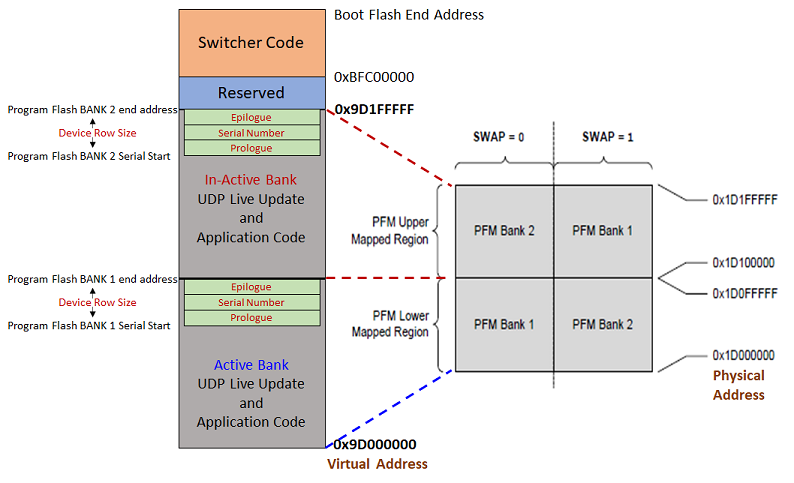
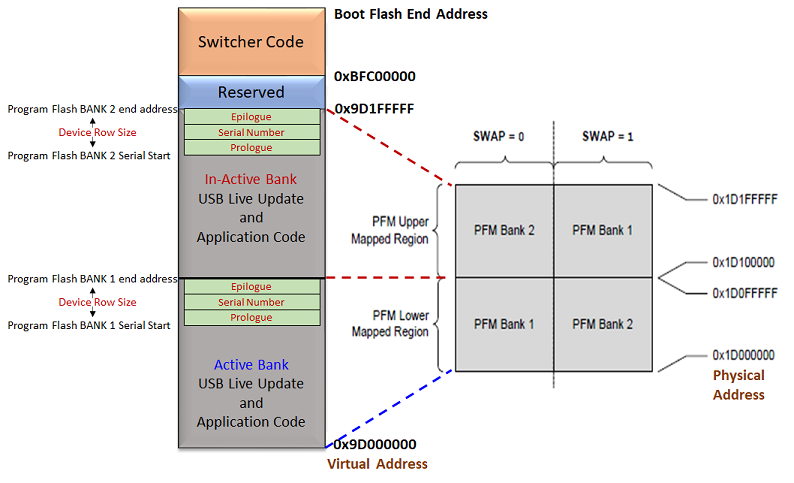
[DOC] Updated Application documentation
MH3-53040

diff --git a/apps/docs/readme_configure_application_pic32m.md b/apps/docs/readme_configure_application_pic32m.md
@@ -1,17 +1,19 @@
 ---
 parent: Application Configurations
-title: PIC32M Application Configurations
+title: Application Configurations for MIPS based MCUs
 has_children: false
 has_toc: false
 ---
 
 [![MCHP](https://www.microchip.com/ResourcePackages/Microchip/assets/dist/images/logo.png)](https://www.microchip.com)
 
-# Configuring a PIC32M based Application to be bootloaded
+# Configuring an application to be bootloaded for MIPS based MCUs
+
+## Linker configurations for the application to be bootloaded
 
 ### Bootloader placement for various PIC32M product families
 
-The bootloader is placed in Boot Flash Memory (BFM) or Program Flash Memory (PFM) based on the size of the bootloader and available Boot flash memory on the device.
+The bootloader is placed in **Boot Flash Memory (BFM)** or **Program Flash Memory (PFM)** based on the size of the bootloader and available Boot flash memory on the device.
 
 - If the bootloader fits into the available BFM, it is placed in BFM. The user application can use the complete area of the program Flash memory.
 
@@ -19,10 +21,11 @@ The bootloader is placed in Boot Flash Memory (BFM) or Program Flash Memory (PFM
 
 - The following table shows the available Boot Flash memory and the placement of different bootloaders by product family. 
 
-![bootloader_placement](./images/bootloader_placement.png)
+    <p align="center">
+        <img src = "./images/bootloader_placement.png"/>
+    </p>
 
-
-## Setting Up the Application linker script
+## Setting up the Application linker script
 
 The linker script file of the application project has to be modified to place the vector table and reset handlers in program flash memory.
 
@@ -54,7 +57,7 @@ The linker script file of the application project has to be modified to place th
 - Updated linker scripts as explained above is shown here **as an example**
     - **Note: Cache related sections are not applicable for PIC32MK Devices**
 
-```
+```c
 PROVIDE(_vector_spacing = 0x0001);
 PROVIDE(_ebase_address = 0x9D000000);
 
@@ -132,7 +135,7 @@ kseg1_boot_mem_4B0      : ORIGIN = 0xBD0004B0, LENGTH = 0x1000 - 0x4B0
 - Updated linked scripts as explained above is shown here **as an example**.
     - Bootloader length **\<bootloader_length\>** in the below snippet needs to be replaced with size of the respective bootloader.
 
-```
+```c
 PROVIDE(_vector_spacing = 0x0001);
 PROVIDE(_ebase_address = 0x9D000000);
 
@@ -191,7 +194,7 @@ kseg1_boot_mem          : ORIGIN = 0xBD000000 + <bootloader_length>, LENGTH = 0x
 - Updated linked scripts as explained above is shown here **as an example.**
     - Bootloader length **\<bootloader_length\>** in the below snippet needs to be replaced with size of the respective bootloader.
 
-```
+```c
 PROVIDE(_vector_spacing = 0x0001);
 PROVIDE(_ebase_address = 0x9D000000 + <bootloader_length> + 0x1000);
 
@@ -226,11 +229,11 @@ ASSERT (_vector_spacing == 0 || SIZEOF(.vector_1) <= (_vector_spacing << 5), "fu
 
 ### Note
 
-- **As the Device configuration bits should be updated by bootloader only, the application linker script should not have any device configuration settings**
+- **The bootloader and the application must have the same device configuration bit settings. The Device configuration bit settings from the bootloader project will be updated by the programmer/debugger, Hence the application linker script should not have any device configuration bit settings. The application project will use the device configuration bit settings done by bootloader.**
 
 - **Device configurations and debug exception need to discarded from final hex file for the application project.**
 
-```
+```c
 /DISCARD/ : { *(._debug_exception) }
 /DISCARD/ : { *(.config_*) }
 ```
@@ -239,7 +242,7 @@ ASSERT (_vector_spacing == 0 || SIZEOF(.vector_1) <= (_vector_spacing << 5), "fu
 
 - **Data Memory Origin** and **Data Memory Length** values should be updated in linkerscript for reserving configured bytes from start of RAM to **trigger bootloader from firmware**
 
-```
+```c
 /* Reserve <trigger_len> Bytes to Store Bootloader Trigger Pattern */
 kseg0_data_mem       (w!x)  : ORIGIN = <ram_start> + <trigger_len>, LENGTH = <ram_length> - <trigger_len>
 ```
@@ -254,10 +257,15 @@ kseg0_data_mem       (w!x)  : ORIGIN = <ram_start> + <trigger_len>, LENGTH = <ra
 ${MP_CC_DIR}/xc32-objcopy -I ihex -O binary ${DISTDIR}/${PROJECTNAME}.${IMAGE_TYPE}.hex ${DISTDIR}/${PROJECTNAME}.${IMAGE_TYPE}.bin
     ```
 
-    ![application_config_post_build_script](./images/application_config_post_build_script.png)
+    <p align="center">
+        <img src = "./images/application_config_post_build_script.png"/>
+    </p>
 
 ### For Bootloading the application using USB Device HID Bootloader
 
 - Check the **Normalize hex file** option as shown below, as the **Unified bootloader host application** takes hex file as an input. **Normalizing the hex file will make sure the data in the hex file is arranged sequentially**
 
-    ![application_config_normalize_hex](./images/application_config_normalize_hex.png)
+    <p align="center">
+        <img src = "./images/application_config_normalize_hex.png"/>
+    </p>
+

diff --git a/apps/docs/readme_live_update_memory_layout_pic32m.md b/apps/docs/readme_live_update_memory_layout_pic32m.md
@@ -1,29 +1,29 @@
 ---
 parent: Live Update Memory Layout
-title: PIC32M Live Update Memory Layout
+title: Live Update Memory Layout For MIPS Based MCUs
 has_children: false
 has_toc: false
 ---
 
 [![MCHP](https://www.microchip.com/ResourcePackages/Microchip/assets/dist/images/logo.png)](https://www.microchip.com)
 
-# PIC32M Live Update Memory Layout
+# Live Update Memory layout for MIPS based MCUs
 
-- This layout is applicable only for devices which have Dual bank support (PIC32MZ/PIC32MK)
-    - Refer to respective Datasheet for Program Flash Memory Start and Size
+- Supported for the devices which have a Dual Bank flash memory
 
-- Switcher code is always placed at start of the Boot flash memory (0xBFC00000) as upon reset the device runs from start of boot flash memory. 
+- **Switcher code** is placed at start of the Boot flash memory (0xBFC00000) as upon reset the device runs from start of boot flash memory.
+    - **Note: The switcher code provided does not have any programming capabilities.It just performs bank swap operations**
 
-- Program Flash memory is split into two equal banks **(BANK1 and BANK2)**. Either of the banks will be mapped to Lower region **(0x1D000000)** from which the USB Device HID Live Update application has to run
+- Device always executes the application firmware from PFM bank mapped to lower memory region **(0x1D00_0000 Physical address)**
+    - Start address of Active Bank is mapped to lower region **0x9D000000**
 
-    - Start address of **Active Bank** which is mapped to lower region is always **0x9D000000**
+    - Start address of Inactive Bank is from mid of the PFM which can vary from device to device. Refer to respective Data sheets for details of Flash memory layout.
 
-    - Start address of **Inactive Bank** is from mid of the Program flash memory which can vary from device to device. Refer to respective Data sheets for details of Flash memory layout. 
+- Row size number of bytes are reserved at end of each bank for storing serial number. This serial number will be used by the **switcher code placed in BFM** to map the appropriate PFM bank to lower memory region and run the application from there
 
-- **Row size number of bytes** are reserved at end of each bank for storing serial number. This serial number will be used by switcher to map the appropriate bank to lower memory region and run the live update application from there
+- The live update start address should always fall into lower mapped region **(0x9D000000 to Mid of Flash)**. Size of the application in the linker script should also not exceed the Mid of flash.
 
-- Actual live update application start address should always fall into lower mapped region **(0x9D000000 to Mid of Flash)**. Size of the application in the linker script should also not exceed the Mid of flash.
-
-    ![live_update_memory_layout_pic32m](./images/live_update_memory_layout_pic32m.png)
-
+    <p align="center">
+        <img src = "./images/live_update_memory_layout_pic32m.png"/>
+    </p>
 

diff --git a/apps/docs/readme_configure_application_sam.md b/apps/docs/readme_configure_application_sam.md
@@ -1,20 +1,22 @@
 ---
 parent: Application Configurations
-title: SAM Application Configurations
+title: Application Configurations for CORTEX-M based MCUs
 has_children: false
 has_toc: false
 ---
 
 [![MCHP](https://www.microchip.com/ResourcePackages/Microchip/assets/dist/images/logo.png)](https://www.microchip.com)
 
-# Configuring a SAM based Application to be bootloaded
+# Configuring an application to be bootloaded for CORTEX-M based MCUs
 
-## Application Settings in MHC System Configuration
+## Application settings in MHC system configuration
 
 1. Launch MHC for the application project to be configured
 2. Select **system** component from the project graph and configure the below highlighted settings
 
-    ![application_config_mhc_setting](./images/application_config_mhc_setting.png)
+    <p align="center">
+        <img src = "./images/application_config_mhc_setting.png"/>
+    </p>
 
 3. **Disable Fuse Settings:**
     - Fuse settings needs to be disabled for the application which will be boot-loaded as the fuse settings are supposed to be programmed through programming tool from bootloader code. Also the fuse settings are not programmable through firmware
@@ -32,7 +34,9 @@ has_toc: false
 
     - After the project is regenerated, the ROM_ORIGIN and ROM_LENGTH are the XC32 linker variables which will be overridden with value provided for **Application Start Address (Hex)** and can be verified under Options for xc32-ld in Project Properties in MPLABX IDE as shown below.
 
-    ![application_config_xc32_ld_rom](./images/application_config_xc32_ld_rom.png)
+    <p align="center">
+        <img src = "./images/application_config_xc32_ld_rom.png"/>
+    </p>
 
 ## MPLAB X Settings
 
@@ -50,7 +54,9 @@ ${MP_CC_DIR}/xc32-objcopy -I ihex -O binary ${DISTDIR}/${PROJECTNAME}.${IMAGE_TY
 
 - Check the **Normalize hex file** option as shown below, as the **Unified bootloader host application** takes hex file as an input. **Normalizing the hex file will make sure the data in the hex file is arranged sequentially**
 
-    ![application_config_normalize_hex](./images/application_config_normalize_hex.png)
+    <p align="center">
+        <img src = "./images/application_config_normalize_hex.png"/>
+    </p>
 
 ## Additional settings (Optional)
 
@@ -60,4 +66,7 @@ ${MP_CC_DIR}/xc32-objcopy -I ihex -O binary ${DISTDIR}/${PROJECTNAME}.${IMAGE_TY
 
 - This is optional and can be ignored if not required
 
-    ![application_config_xc32_ld_ram](./images/application_config_xc32_ld_ram.png)
+    <p align="center">
+        <img src = "./images/application_config_xc32_ld_ram.png"/>
+    </p>
+

diff --git a/apps/docs/readme_live_update_memory_layout_sam.md b/apps/docs/readme_live_update_memory_layout_sam.md
@@ -1,22 +1,24 @@
 ---
 parent: Live Update Memory Layout
-title: SAM Live Update Memory Layout
+title: Live Update Memory Layout For CORTEX-M Based MCUs
 has_children: false
 has_toc: false
 ---
 
 [![MCHP](https://www.microchip.com/ResourcePackages/Microchip/assets/dist/images/logo.png)](https://www.microchip.com)
 
-# SAM Live Update Memory Layout
+# Live Update Memory layout for CORTEX-M based MCUs
 
-- This layout is applicable only for devices which have Dual bank support (SAMD5x/E5x)
+- Supported for the devices which have a Dual Bank flash memory
 
-- Internal Flash memory is split into two equal banks **(BANKA and BANKB)**. Special NVM Fuse setting **(AFIRST)** is used to identify which bank is mapped to NVM main address space after reset.
+- Internal Flash memory is split into two equal banks. Special NVM Fuse setting **(AFIRST)** is used to identify which bank is mapped to NVM main address space after reset.
 
-    - Start address of **Active Bank** is always **0x00000000**
+    - Start address of **Active Bank** is always **start of Internal Flash memory**
 
-    - Start address of **Inactive Bank** is from mid of the Internal flash memory which can vary from device to device. Refer to respective Data sheets for details of Flash memory layout. 
+    - Start address of **Inactive Bank** is from mid of the Internal flash memory which can vary from device to device. Refer to respective Data sheets for details of Flash memory layout.
 
 - Live update application start address should always be **(0x00000000 to Mid of Flash)**. Size of the application should not exceed the Mid of flash.
 
-    ![live_update_memory_layout_sam](./images/live_update_memory_layout_sam.png)
+    <p align="center">
+        <img src = "./images/live_update_memory_layout_sam.png"/>
+    </p>

diff --git a/apps/usb_device_hid_bootloader/docs/readme_pic32mk_mcm_curiosity_pro.md b/apps/usb_device_hid_bootloader/docs/readme_pic32mk_mcm_curiosity_pro.md
@@ -21,15 +21,15 @@ To build the application, refer to the following table and open the project usin
 
 | Project Name      | Description                                    |
 | ----------------- | ---------------------------------------------- |
-| bootloader/firmware/pic32mk_mcm_curiosity_pro.X    | MPLABX Project for PIC32MK MCM Curiosity Pro Development Board |
+| bootloader/firmware/pic32mk_mcm_curiosity_pro.X    | MPLABX Project for [PIC32MK MCM Curiosity Pro Development Board](https://www.microchip.com/Developmenttools/ProductDetails/EV31E34A) |
 
 ### Test Application
 
 | Project Name      | Description                                    |
 | ----------------- | ---------------------------------------------- |
-| test_app/firmware/pic32mk_mcm_curiosity_pro.X    | MPLABX Project for PIC32MK MCM Curiosity Pro Development Board |
+| test_app/firmware/pic32mk_mcm_curiosity_pro.X    | MPLABX Project for [PIC32MK MCM Curiosity Pro Development Board](https://www.microchip.com/Developmenttools/ProductDetails/EV31E34A) |
 
-## Setting up PIC32MK MCM Curiosity Pro Development Board
+## Setting up [PIC32MK MCM Curiosity Pro Development Board](https://www.microchip.com/Developmenttools/ProductDetails/EV31E34A)
 
 - Connect a micro USB cable to the USB to UART port J400. This will enumerate as a COM port on the PC
 - For programming, Connect a micro USB cable to the USB DEBUG port J500

diff --git a/apps/usb_live_update/docs/readme_pic32mk_mcm_curiosity_pro.md b/apps/usb_live_update/docs/readme_pic32mk_mcm_curiosity_pro.md
@@ -21,17 +21,17 @@ To build the application, refer to the following table and open the project usin
 
 | Project Name      | Description                                    |
 | ----------------- | ---------------------------------------------- |
-| switcher/firmware/pic32mk_mcm_curiosity_pro.X    | MPLABX Project for PIC32MK MCM Curiosity Pro Development Board |
+| switcher/firmware/pic32mk_mcm_curiosity_pro.X    | MPLABX Project for [PIC32MK MCM Curiosity Pro Development Board](https://www.microchip.com/Developmenttools/ProductDetails/EV31E34A) |
 
 
 ### Live Update Application
 
 | Project Name      | Description                                    |
 | ----------------- | ---------------------------------------------- |
-| live_update_app/firmware/pic32mk_mcm_curiosity_pro.X    | MPLABX Project for PIC32MK MCM Curiosity Pro Development Board |
+| live_update_app/firmware/pic32mk_mcm_curiosity_pro.X    | MPLABX Project for [PIC32MK MCM Curiosity Pro Development Board](https://www.microchip.com/Developmenttools/ProductDetails/EV31E34A) |
 
 
-## Setting up PIC32MK MCM Curiosity Pro Development Board
+## Setting up [PIC32MK MCM Curiosity Pro Development Board](https://www.microchip.com/Developmenttools/ProductDetails/EV31E34A)
 
 - Connect a micro USB cable to the USB to UART port J400. This will enumerate as a COM port on the PC
 

diff --git a/apps/usb_live_update/readme.md b/apps/usb_live_update/readme.md
@@ -16,9 +16,9 @@ This example application shows how to use the Bootloader Library as a Live Updat
 
 ### Memory Layout
 
-- For SAM devices refer to [SAM Memory Layout](../docs/readme_live_update_memory_layout_sam.md)
+- For CORTEX-M based MCUs refer to [Live Update Memory Layout For CORTEX-M Based MCUs](../docs/readme_live_update_memory_layout_sam.md)
 
-- For PIC32M devices refer to [PIC32M Memory Layout](../docs/readme_live_update_memory_layout_pic32m.md)
+- For MIPS Based MCUs refer to [Live Update Memory Layout For MIPS Based MCUs](../docs/readme_live_update_memory_layout_pic32m.md)
 
 ### Switcher Application (For PIC32MZ/PIC32MK Devices Only)
 
@@ -33,7 +33,7 @@ This example application shows how to use the Bootloader Library as a Live Updat
 
         - If Bank 2 serial number is **greater than** Bank 1 serial number it maps Bank 2 to lower region by setting the **Swap bit** and jumps to **(0x9D000000)** location. As Bank 2 is now mapped to lower region, application in Bank 2 starts running and this becomes **Active Bank**
 
-#### NOTE: The Switcher project does not have any programing capabilities. It just performs above mentioned operation at reset
+- **NOTE: The Switcher project does not have any programing capabilities. It just performs above mentioned operation at reset**
 
 
 ### Live Update Application

diff --git a/apps/usb_device_hid_bootloader/readme.md b/apps/usb_device_hid_bootloader/readme.md
@@ -50,6 +50,7 @@ The following table provides links to documentation on how to build and run USB 
 |[PIC32MX Curiosity Development Board](docs/readme_pic32mx470_curiosity.md) |
 |[PIC32MZ Embedded Graphics with Stacked DRAM (DA) Starter Kit (Crypto)](docs/readme_pic32mz_das_sk.md) |
 |[PIC32MZ Embedded Connectivity with FPU (EF) Starter Kit](docs/readme_pic32mz_ef_sk.md) |
+|[PIC32 WFI32E Curiosity Board](docs/readme_pic32mz_w1_curiosity.md) |
 |[SAM D21 Xplained Pro Evaluation Kit](docs/readme_sam_d21_xpro.md) |
 |[SAM E54 Xplained Pro Evaluation Kit](docs/readme_sam_e54_xpro.md) |
 |[SAM E70 Xplained Ultra Evaluation Kit](docs/readme_sam_e70_xult.md) |

diff --git a/apps/docs/readme_live_update_memory_layout.md b/apps/docs/readme_live_update_memory_layout.md
@@ -9,6 +9,6 @@ nav_order: 3
 
 # Live Update Memory Layout
 
-- To view Live Update memory layout for SAM devices refer to [SAM Memory Layout](./readme_live_update_memory_layout_sam.md)
+- To view Live Update memory layout for CORTEX-M Based MCUs refer to [Live Update Memory Layout For CORTEX-M Based MCUs](./readme_live_update_memory_layout_sam.md)
 
-- To view Live Update memory layout for PIC32M devices refer to [PIC32M Memory Layout](./readme_live_update_memory_layout_pic32m.md)
+- To view Live Update memory layout for MIPS Based MCUs refer to [Live Update Memory Layout For MIPS Based MCUs](./readme_live_update_memory_layout_pic32m.md)

diff --git a/apps/docs/readme_configure_application.md b/apps/docs/readme_configure_application.md
@@ -9,6 +9,6 @@ nav_order: 2
 
 # Configuring an Application to be bootloaded
 
-- To bootload a SAM based application refer to [SAM Application Configuration](./readme_configure_application_sam.md)
+- To bootload a CORTEX-M based application refer to [Application Configurations for CORTEX-M based MCUs](./readme_configure_application_sam.md)
 
-- To bootload a PIC32M based application refer to [PIC32M Application Configuration](./readme_configure_application_pic32m.md)
+- To bootload a MIPS based application refer to [Application Configurations for MIPS based MCUs](./readme_configure_application_pic32m.md)
